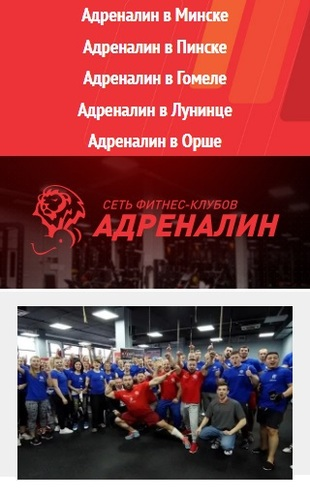
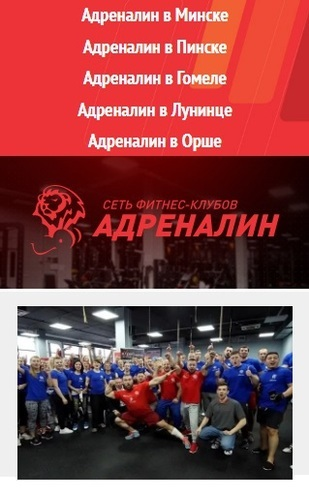
corrected img properties for lesson 2

diff --git a/lesson2/styles/small.css b/lesson2/styles/small.css
@@ -39,13 +39,14 @@ h4{
 }
 
 img{
-    max-width: 300px;
+    max-inline-size: 98%;
+    block-size: auto;
     border: 1pt solid black;
     margin: 0 auto; 
     display: block;
 }
 p{
-    margin: 5px;
+    margin: 1ch;
 }
 footer{
     line-height: 0.8;

diff --git a/lesson2/styles/medium.css b/lesson2/styles/medium.css
@@ -16,7 +16,4 @@
     section:nth-child(3){
         grid-column: span 2;
     }
-    img{
-        max-width: 250px;
-    }
 }
